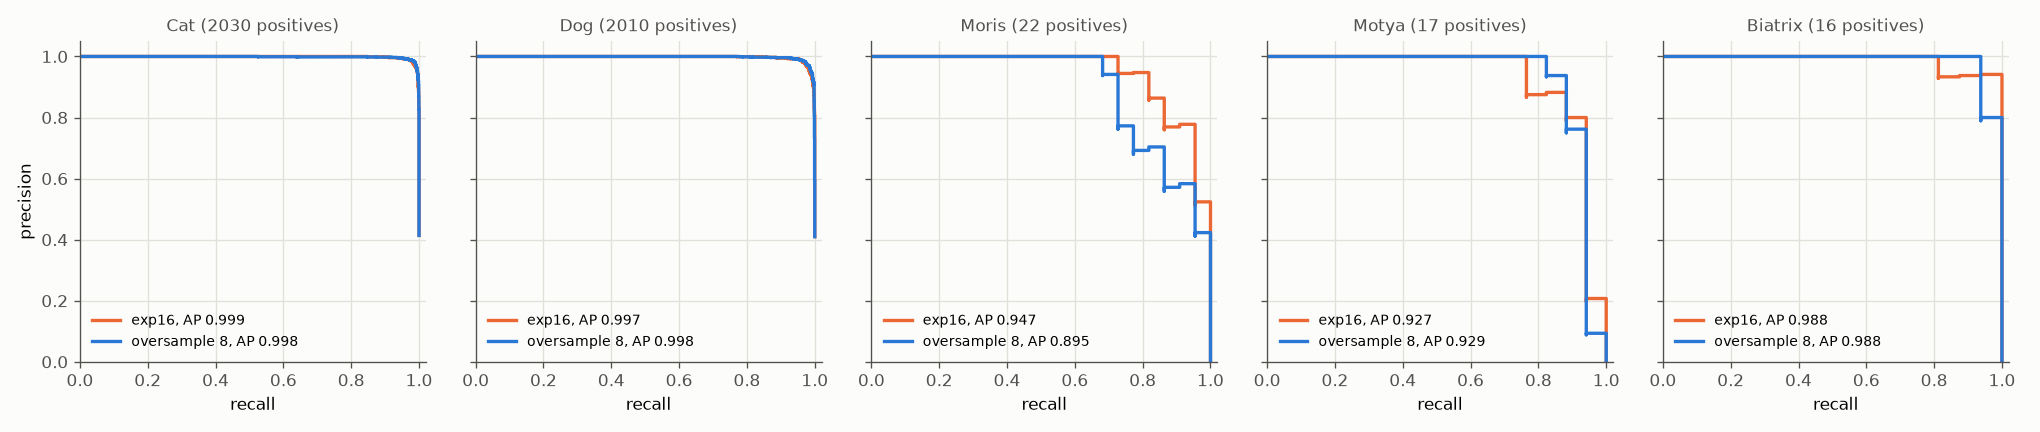
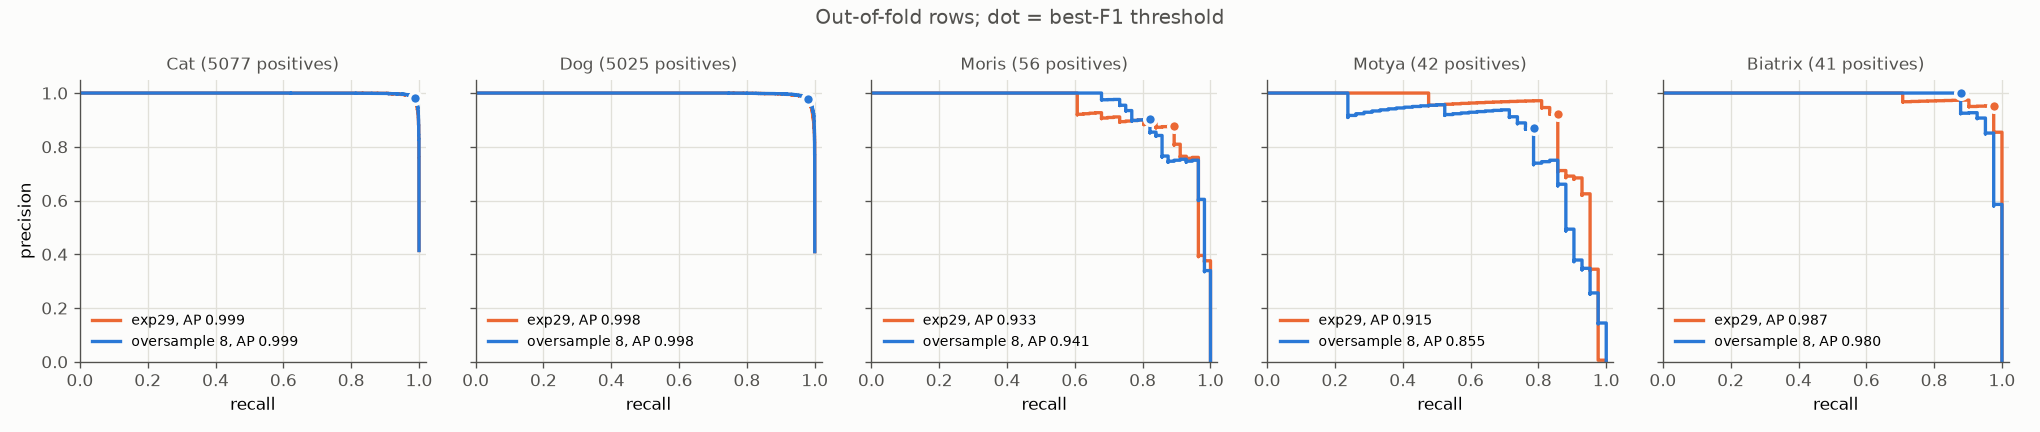
feat: exp42 card and figures; exp43 convnext_tiny full-data config

diff --git a/docs/experiments/exp42_oversample_8_only.md b/docs/experiments/exp42_oversample_8_only.md
@@ -4,23 +4,25 @@
 
 create an experiment: Oversample(8, 1) model with only initial augmentations; train it, compare precision recall curves for it with exp16; draw train/val curves for both folds
 
+rewrite exp42 file: I want to compare 5 folds CV instead of 2 folds
+
 ## Question
 
-On pooled out-of-fold rows of folds 0–1, how do per-class precision-recall curves of ResNet-18 with `Oversample(8, 1)` differ from exp16 (`OverDownsample(8, 0.2)`)?
+On pooled out-of-fold rows of folds 0–4, how do per-class precision-recall curves of ResNet-18 with `Oversample(8, 1)` differ from exp29 (`OverDownsample(8, 0.2)`, 5 folds)?
 
 ## Plan
 
-1. Plot precision against recall per class for new model and exp16 on pooled out-of-fold rows of folds 0–1.
-2. Plot train and val loss plus mAP per epoch for folds 0 and 1 of both models.
+1. Plot precision against recall per class for new model and exp29 on pooled out-of-fold rows of folds 0–4.
+2. Plot train and val loss plus mAP per epoch for folds 0–4 of both models.
 
 All plots follow `dataviz` skill.
 
 ## Setup
 
-- **Notebook:** [exp42_oversample_8_only.ipynb](../notebooks/experiments/exp42_oversample_8_only.ipynb)
-- **Tracking:** `cnn-model-oversample-8-only`; exp16 read from saved results
-- **What changes:** `downsample` 1.0 (exp16: 0.2), so sampling `Oversample`, `pos_weight` power 0.5; `is_new = true`.
-- **What stays fixed:** ResNet-18 `resnet18.a1_in1k`, `default` augmentations, `oversample` 8, folds 0–1, 10 epochs, 224 px, batch 64.
+- **Notebook:** [exp42_oversample_8_only.ipynb](../../notebooks/experiments/exp42_oversample_8_only.ipynb)
+- **Tracking:** `cnn-model-oversample-8-only`; exp29 read from saved results
+- **What changes:** `downsample` 1.0 (exp29: 0.2), so sampling `Oversample`, `pos_weight` full ratio over sampler draws (power 1.0).
+- **What stays fixed:** ResNet-18 `resnet18.a1_in1k`, `default` augmentations, `oversample` 8, folds 0–4, 10 epochs, 224 px, batch 64.
 - **Metric:** AP per class, PR curves.
 
 ## Fixes
